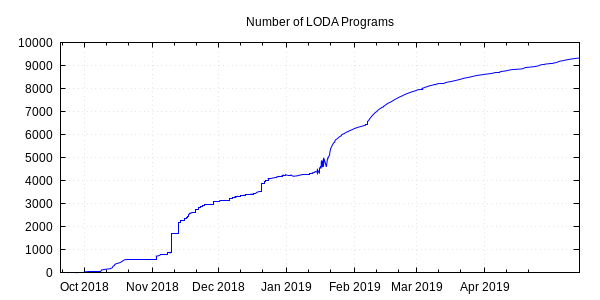
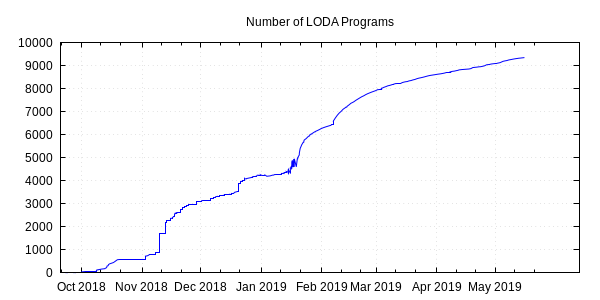
updated 26 programs

diff --git a/programs/oeis/list1.md b/programs/oeis/list1.md
@@ -801,6 +801,7 @@ List of integer sequences with links to LODA programs. An _Ln_ program is a LODA
 * [A130519](http://oeis.org/A130519) ([L05 program](A130519.asm)): a(n) = Sum_{k=0..n} floor(k/4). (Partial sums of A002265.)
 * [A130520](http://oeis.org/A130520) ([L05 program](A130520.asm)): a(n) = Sum_{k=0..n} floor(k/5). (Partial sums of A002266).
 * [A130543](http://oeis.org/A130543) ([L03 program](A130543.asm)): Multiplicative persistence of n!.
+* [A130567](http://oeis.org/A130567) ([L15 program](A130567.asm)): Expansion of x*(2 - 7*x + 2*x^2)/((1-x)*(1-4*x)*(1-2*x)).
 * [A130624](http://oeis.org/A130624) ([L13 program](A130624.asm)): Binomial transform of A101000.
 * [A130625](http://oeis.org/A130625) ([L09 program](A130625.asm)): First differences of A130624.
 * [A130626](http://oeis.org/A130626) ([L15 program](A130626.asm)): Second differences of A130624.
@@ -1545,6 +1546,7 @@ List of integer sequences with links to LODA programs. An _Ln_ program is a LODA
 * [A153643](http://oeis.org/A153643) ([L09 program](A153643.asm)): Jacobsthal numbers A001045 incremented by 2.
 * [A153644](http://oeis.org/A153644) ([L12 program](A153644.asm)): a(n) = 4*n^2 + 28*n + 10.
 * [A153727](http://oeis.org/A153727) ([L08 program](A153727.asm)): Period 3: repeat [1, 4, 2] ; Trajectory of 3x+1 sequence starting at 1.
+* [A153733](http://oeis.org/A153733) ([L16 program](A153733.asm)): Remove all trailing ones in binary representation of n.
 * [A153780](http://oeis.org/A153780) ([L11 program](A153780.asm)): 10 times pentagonal numbers: a(n) = 5*n*(3*n-1).
 * [A153783](http://oeis.org/A153783) ([L10 program](A153783.asm)): 3 times 11-gonal (or hendecagonal) numbers: 3*n*(9*n-7)/2.
 * [A153784](http://oeis.org/A153784) ([L07 program](A153784.asm)): 4 times heptagonal numbers: 2n(5n-3).
@@ -1662,6 +1664,7 @@ List of integer sequences with links to LODA programs. An _Ln_ program is a LODA
 * [A157434](http://oeis.org/A157434) ([L10 program](A157434.asm)): a(n) = 4*n^2 + 79*n + 390.
 * [A157435](http://oeis.org/A157435) ([L12 program](A157435.asm)): 64n + 632.
 * [A157446](http://oeis.org/A157446) ([L09 program](A157446.asm)): a(n) = 16*n^2 - n.
+* [A157454](http://oeis.org/A157454) ([L15 program](A157454.asm)): Triangle read by rows: T(n,m)== min(2*m - 1, 2*(n - m) + 1).
 * [A157474](http://oeis.org/A157474) ([L12 program](A157474.asm)): a(n) = 16n^2 + n.
 * [A157502](http://oeis.org/A157502) ([L10 program](A157502.asm)): Even numbers without the squares.
 * [A157514](http://oeis.org/A157514) ([L19 program](A157514.asm)): a(n) = 25*n^2 - n.
@@ -1685,6 +1688,7 @@ List of integer sequences with links to LODA programs. An _Ln_ program is a LODA
 * [A157913](http://oeis.org/A157913) ([L18 program](A157913.asm)): a(n) = 64*n^2 - 16.
 * [A157914](http://oeis.org/A157914) ([L08 program](A157914.asm)): a(n) = 8*n^2 - 1.
 * [A157916](http://oeis.org/A157916) ([L15 program](A157916.asm)): a(n) = 50*n^2 + 1.
+* [A157919](http://oeis.org/A157919) ([L20 program](A157919.asm)): a(n) = 50*n^2 - 1.
 * [A157928](http://oeis.org/A157928) ([L03 program](A157928.asm)): a(n) = 0 if n < 2, = 1 otherwise.
 * [A157932](http://oeis.org/A157932) ([L14 program](A157932.asm)): Numbers n such that 3^(35n)+5^(21n)+7^(15n) mod 105 is prime.
 * [A157949](http://oeis.org/A157949) ([L07 program](A157949.asm)): a(n) = 128*n - 1.
@@ -1794,6 +1798,7 @@ List of integer sequences with links to LODA programs. An _Ln_ program is a LODA
 * [A159697](http://oeis.org/A159697) ([L08 program](A159697.asm)): a(0)=9, a(n) = 2*a(n-1) + 2^(n-1) for n > 0.
 * [A159715](http://oeis.org/A159715) ([L09 program](A159715.asm)): Number of permutations of 2 indistinguishable copies of 1..n arranged in a circle with exactly 1 local maximum.
 * [A159721](http://oeis.org/A159721) ([L08 program](A159721.asm)): Number of permutations of 3 indistinguishable copies of 1..n arranged in a circle with exactly 1 local maximum.
+* [A159727](http://oeis.org/A159727) ([L17 program](A159727.asm)): Number of permutations of 4 indistinguishable copies of 1..n arranged in a circle with exactly 1 local maximum.
 * [A159741](http://oeis.org/A159741) ([L06 program](A159741.asm)): a(n) = 8*(2^n - 1).
 * [A159742](http://oeis.org/A159742) ([L13 program](A159742.asm)): If an array is made of columns of -nacci sequences (Fibonacci, tribonacci, etc.), all starting with 1,1,2,..., the NW-to-SE diagonals can be extended by computation. This sequence is diagonal 6. See A159741 for details.
 * [A159833](http://oeis.org/A159833) ([L13 program](A159833.asm)): a(n) = n^2*(n^2 + 15)/4.
@@ -1931,6 +1936,7 @@ List of integer sequences with links to LODA programs. An _Ln_ program is a LODA
 * [A164115](http://oeis.org/A164115) ([L06 program](A164115.asm)): Expansion of (1 - x^5) / ((1 - x) * (1 - x^4)) in powers of x.
 * [A164120](http://oeis.org/A164120) ([L10 program](A164120.asm)): Partial sums of A162396.
 * [A164123](http://oeis.org/A164123) ([L19 program](A164123.asm)): Partial sums of A162436.
+* [A164131](http://oeis.org/A164131) ([L17 program](A164131.asm)): Numbers n such that n^2 == 2 (mod 31).
 * [A164136](http://oeis.org/A164136) ([L06 program](A164136.asm)): a(n) = 11*n*(n+1).
 * [A164143](http://oeis.org/A164143) ([L14 program](A164143.asm)): Number of binary strings of length n with equal numbers of 001 and 100 substrings
 * [A164284](http://oeis.org/A164284) ([L07 program](A164284.asm)): a(n) = 15*n-7.
@@ -1951,6 +1957,7 @@ List of integer sequences with links to LODA programs. An _Ln_ program is a LODA
 * [A164514](http://oeis.org/A164514) ([L08 program](A164514.asm)): 1 followed by numbers that are not squares.
 * [A164515](http://oeis.org/A164515) ([L11 program](A164515.asm)): Positive numbers not of the form n^2+2.
 * [A164541](http://oeis.org/A164541) ([L12 program](A164541.asm)): a(n) = 6*a(n-1) - a(n-2) for n > 1; a(0) = 1, a(1) = 15.
+* [A164542](http://oeis.org/A164542) ([L11 program](A164542.asm)): a(n) = 8*a(n-1) - 8*a(n-2) for n > 1; a(0) = 1, a(1) = 16.
 * [A164549](http://oeis.org/A164549) ([L12 program](A164549.asm)): a(n) = 4*a(n-1)+2*a(n-2) for n > 1; a(0) = 1, a(1) = 6.
 * [A164559](http://oeis.org/A164559) ([L10 program](A164559.asm)): a(n) = 6^n/3 - 1.
 * [A164582](http://oeis.org/A164582) ([L11 program](A164582.asm)): a(n) = 5*a(n - 1) - a(n - 2), with n>2, a(1)=2, a(2)=3.

diff --git a/programs/oeis/list0.md b/programs/oeis/list0.md
@@ -234,7 +234,7 @@ List of integer sequences with links to LODA programs. An _Ln_ program is a LODA
 * [A003500](http://oeis.org/A003500) ([L07 program](A003500.asm)): a(n) = 4*a(n-1) - a(n-2) with a(0) = 2, a(1) = 4.
 * [A003501](http://oeis.org/A003501) ([L20 program](A003501.asm)): a(n) = 5*a(n-1) - a(n-2).
 * [A003600](http://oeis.org/A003600) ([L10 program](A003600.asm)): Maximal number of pieces obtained by slicing a torus (or a bagel) with n cuts: (n^3 + 3*n^2 + 8*n)/6 (n > 0).
-* [A003682](http://oeis.org/A003682) ([L07 program](A003682.asm)): Number of Hamiltonian paths in K_2 X P_n.
+* [A003682](http://oeis.org/A003682) ([L07 program](A003682.asm)): Number of (undirected) Hamiltonian paths in the n-ladder graph K_2 X P_n.
 * [A003688](http://oeis.org/A003688) ([L14 program](A003688.asm)): a(n) = 3*a(n-1) + a(n-2), with a(1)=1 and a(2)=4.
 * [A003699](http://oeis.org/A003699) ([L10 program](A003699.asm)): Number of Hamiltonian cycles in C_4 X P_n.
 * [A003777](http://oeis.org/A003777) ([L10 program](A003777.asm)): a(n) = n^3 + n^2 - 1.
@@ -3906,6 +3906,7 @@ List of integer sequences with links to LODA programs. An _Ln_ program is a LODA
 * [A094283](http://oeis.org/A094283) ([L13 program](A094283.asm)): Row sums of triangle A094280.
 * [A094284](http://oeis.org/A094284) ([L04 program](A094284.asm)): A094283(n+1)/A094283(n).
 * [A094328](http://oeis.org/A094328) ([L13 program](A094328.asm)): Iterate the map in A006369 starting at 4.
+* [A094361](http://oeis.org/A094361) ([L13 program](A094361.asm)): Pair-reversal of 1,4,4,16,16...
 * [A094373](http://oeis.org/A094373) ([L07 program](A094373.asm)): Expansion of (1-x-x^2)/((1-x)*(1-2*x)).
 * [A094388](http://oeis.org/A094388) ([L08 program](A094388.asm)): Expansion of (1- 2x - x^2)/((1-x)*(1-3x)).
 * [A094434](http://oeis.org/A094434) ([L10 program](A094434.asm)): a(n) = rightmost term of M^n * [1 0 0], with M = the 3 X 3 matrix [1 -1 0 / -1 3 -2 / 0 -2 2].
@@ -4009,6 +4010,7 @@ List of integer sequences with links to LODA programs. An _Ln_ program is a LODA
 * [A098108](http://oeis.org/A098108) ([L13 program](A098108.asm)): a(n) = 1 if n is an odd square, otherwise 0.
 * [A098127](http://oeis.org/A098127) ([L26 program](A098127.asm)): Fibonacci sequence with a(1) = 7 and a(2) = 26.
 * [A098156](http://oeis.org/A098156) ([L11 program](A098156.asm)): Interleave n+1 and 2n+1 and take binomial transform.
+* [A098177](http://oeis.org/A098177) ([L28 program](A098177.asm)): Start with the first n, which reads: "Prolong the sequence with n numbers having their parity opposed to n". Then read and obey the second n, then the third n, etc. This sequence is the slowest increasing one with such rule.
 * [A098178](http://oeis.org/A098178) ([L17 program](A098178.asm)): Expansion of (1+x)(1-x+x^2)/((1-x)(1+x^2)).
 * [A098180](http://oeis.org/A098180) ([L13 program](A098180.asm)): Odd numbers with twice the odd numbers repeated in order between them.
 * [A098181](http://oeis.org/A098181) ([L09 program](A098181.asm)): Odd numbers with two times the positive even numbers repeated in order between them.

diff --git a/programs/oeis/list2.md b/programs/oeis/list2.md
@@ -1321,6 +1321,7 @@ List of integer sequences with links to LODA programs. An _Ln_ program is a LODA
 * [A275973](http://oeis.org/A275973) ([L14 program](A275973.asm)): A binary sequence due to Harold Jeffreys.
 * [A276026](http://oeis.org/A276026) ([L27 program](A276026.asm)): a(n) = Sum_{k=0..7} (n + k)^2.
 * [A276041](http://oeis.org/A276041) ([L10 program](A276041.asm)): Exponential convolution of odd numbers (A005408) with themselves.
+* [A276265](http://oeis.org/A276265) ([L14 program](A276265.asm)): Expansion of (1 + 2*x)/(1 - 6*x + 6*x^2).
 * [A276278](http://oeis.org/A276278) ([L08 program](A276278.asm)): Complement of A026474.
 * [A276283](http://oeis.org/A276283) ([L25 program](A276283.asm)): Expansion of (1 + x + 3*x^2 + x^3)/((1 - x)^2*(1 + x^2)).
 * [A276382](http://oeis.org/A276382) ([L09 program](A276382.asm)): a(1) = 1, and a(n) = a(n-1) + floor(3*n/2) + 1 for n >= 2.
@@ -1533,6 +1534,7 @@ List of integer sequences with links to LODA programs. An _Ln_ program is a LODA
 * [A290721](http://oeis.org/A290721) ([L12 program](A290721.asm)): a(n) = 4^n - n - 1.
 * [A290743](http://oeis.org/A290743) ([L05 program](A290743.asm)): Maximum number of distinct Lyndon factors that can appear in words of length n over an alphabet of size 2.
 * [A290744](http://oeis.org/A290744) ([L09 program](A290744.asm)): Maximum number of distinct Lyndon factors that can appear in words of length n over an alphabet of size 5.
+* [A290745](http://oeis.org/A290745) ([L12 program](A290745.asm)): Maximum number of distinct Lyndon factors that can appear in words of length n over an alphabet of size 10.
 * [A290764](http://oeis.org/A290764) ([L11 program](A290764.asm)): Number of (non-null) connected induced subgraphs in the 2 X n king graph.
 * [A290768](http://oeis.org/A290768) ([L06 program](A290768.asm)): a(n) = 3/2*(n^2 - n + 2).
 * [A290781](http://oeis.org/A290781) ([L07 program](A290781.asm)): a(n) = 20*n + 15.

diff --git a/README.md b/README.md
@@ -81,7 +81,7 @@ If you would like to get updates on new programs, you can check out the [@lodami
 * [A200001-A300000](programs/oeis/list2.md)
 * [A300001-A400000](programs/oeis/list3.md)
 
-Total number of programs: 9276/323146 (2%)
+Total number of programs: 9286/323226 (2%)
 
 ![LODA Program Length Distribution](https://raw.githubusercontent.com/ckrause/loda/master/lengths.png)
 ![LODA Program Counts](https://raw.githubusercontent.com/ckrause/loda/master/counts.png)
